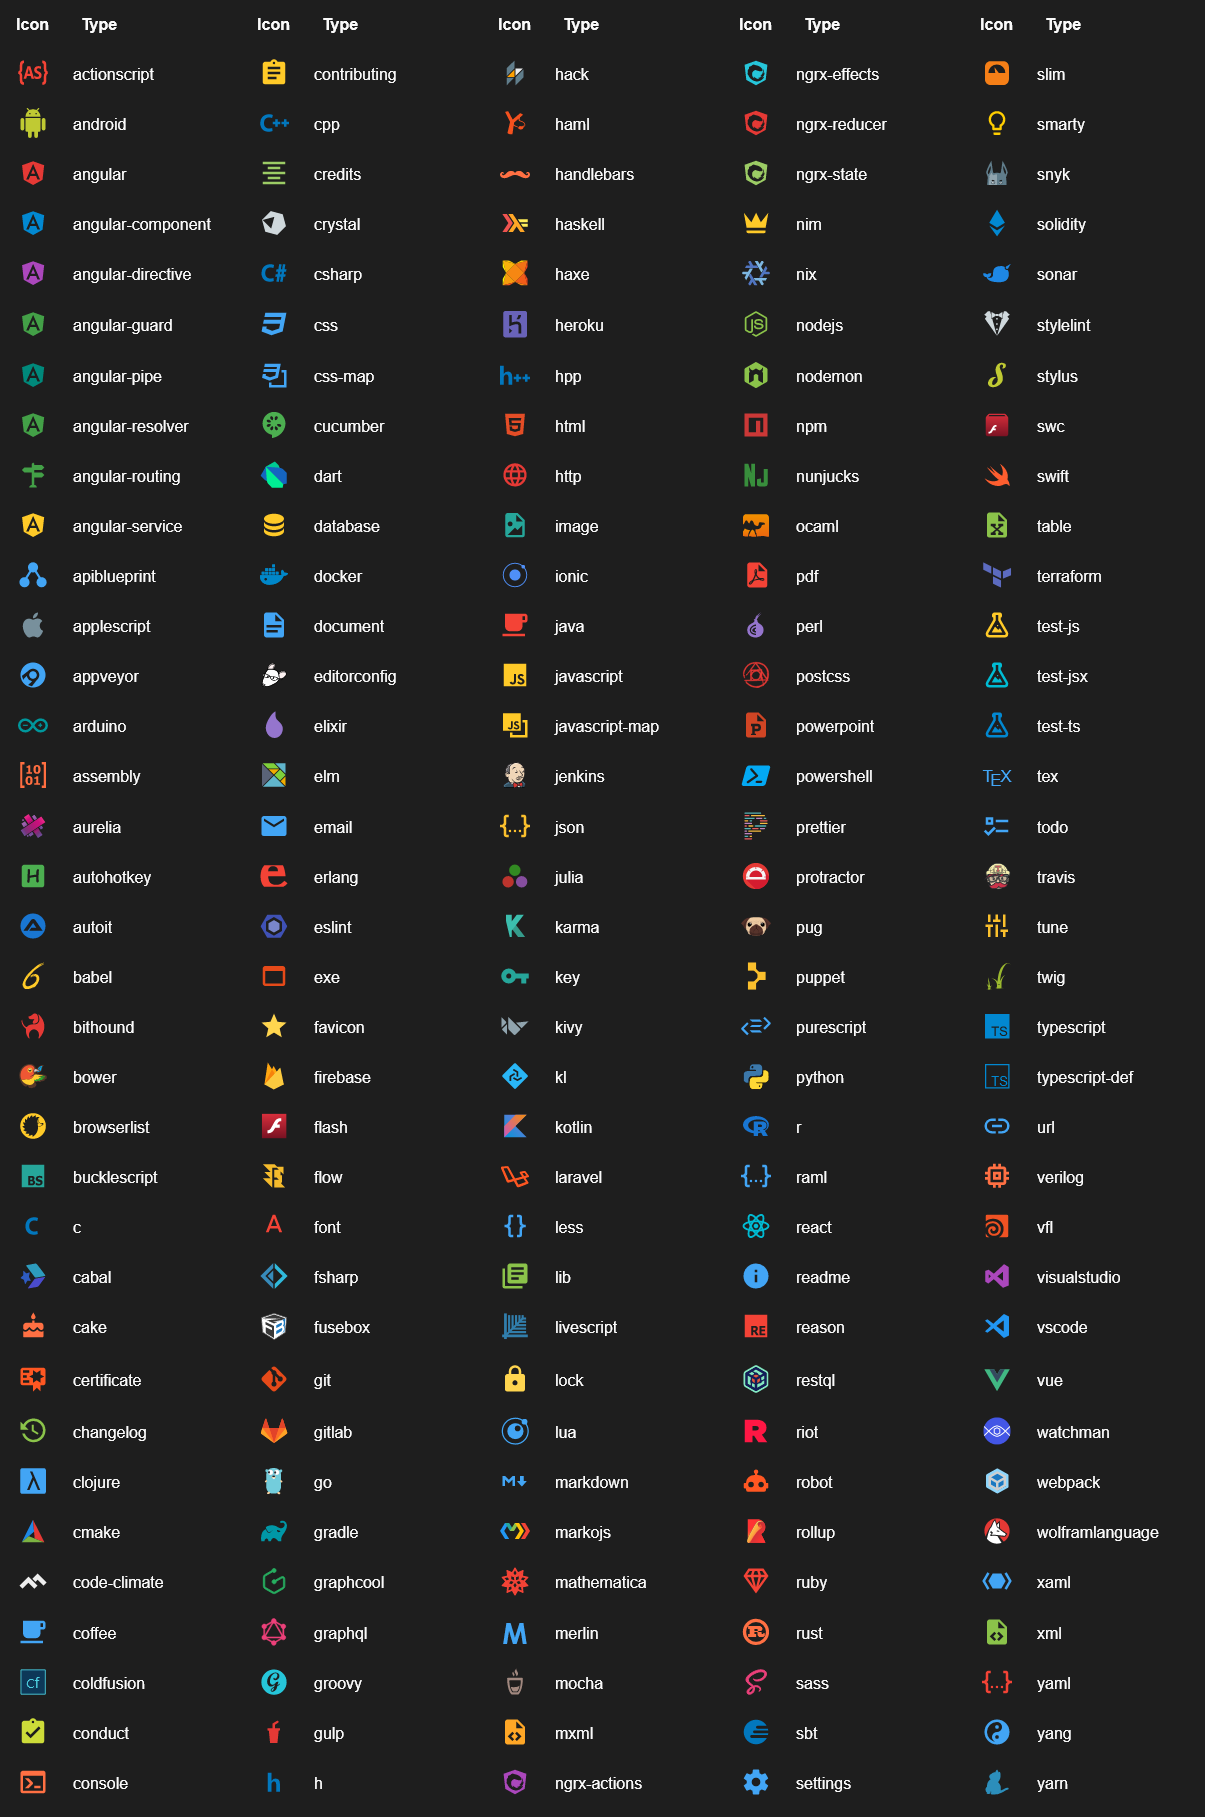
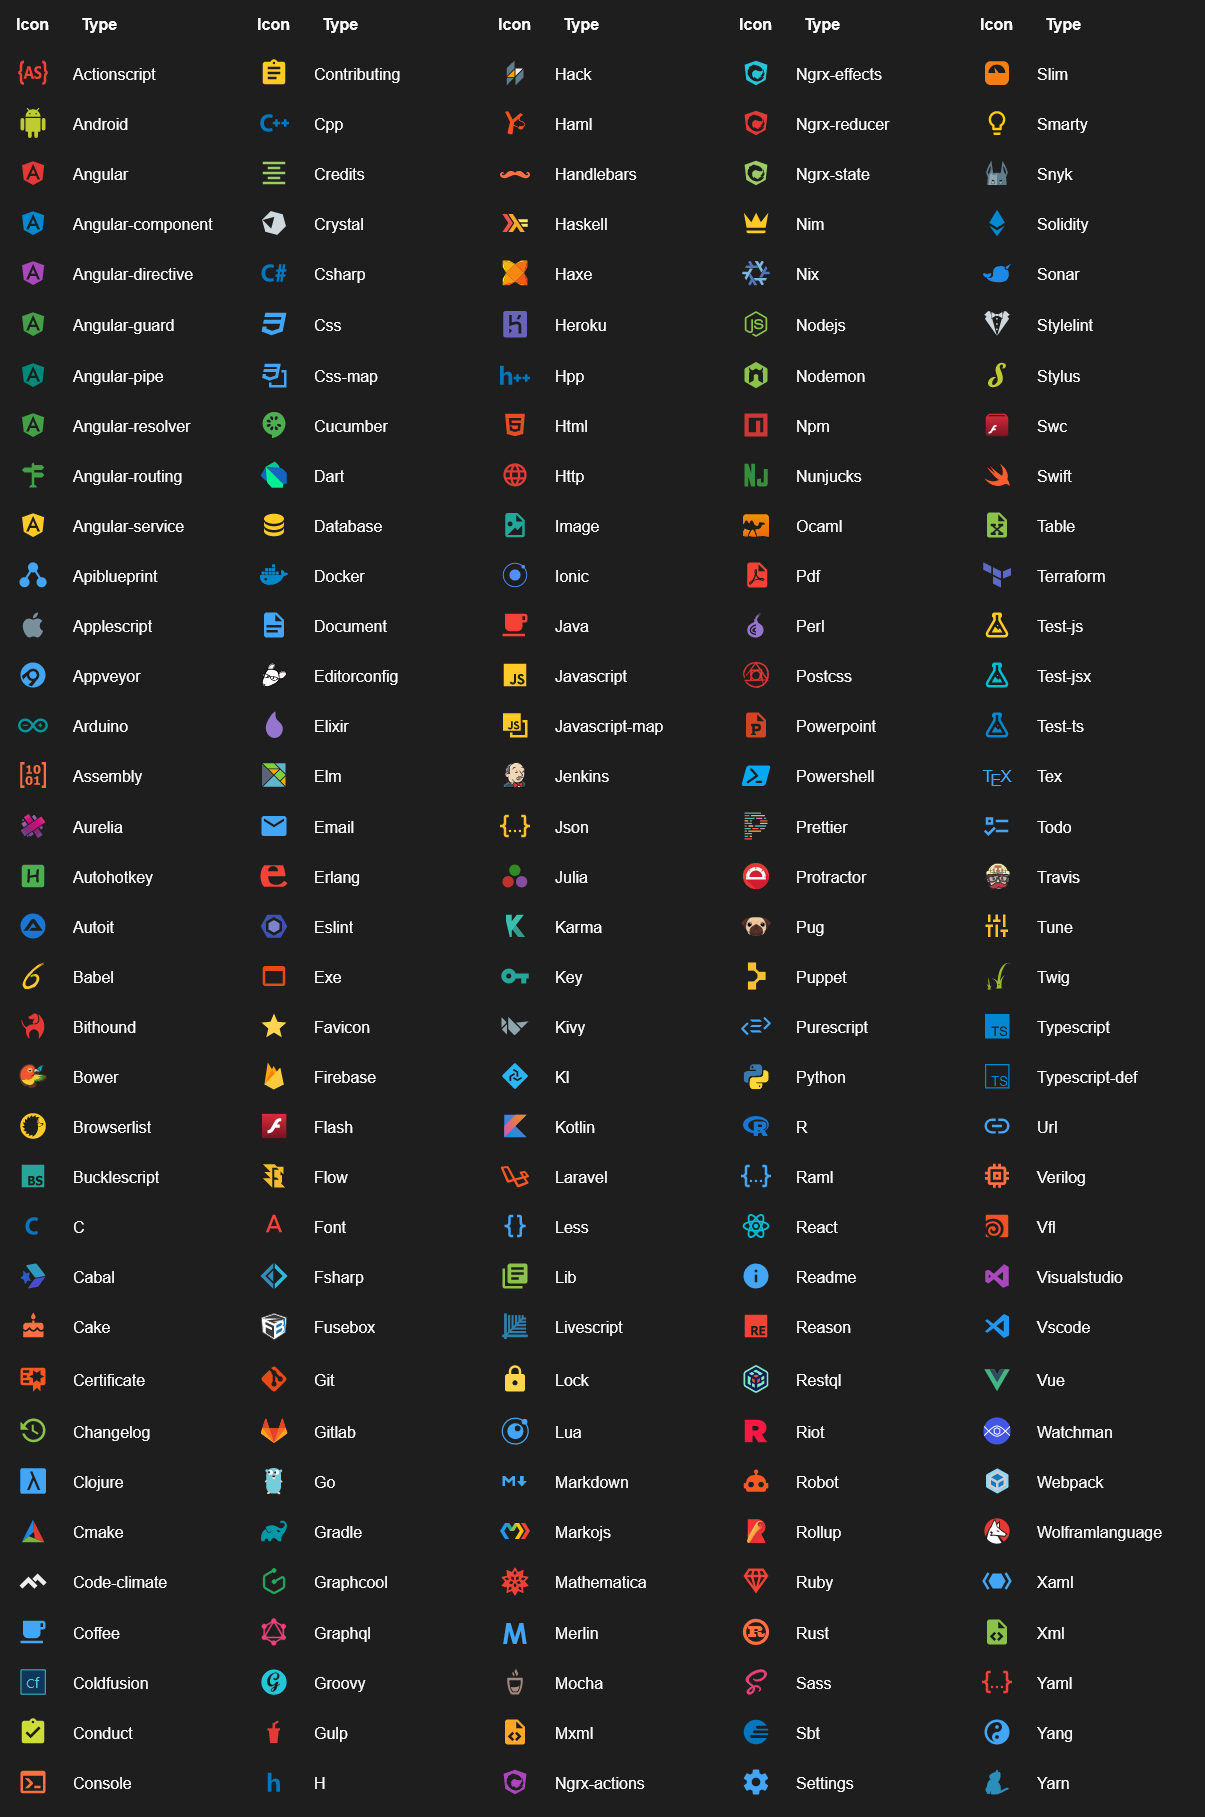
improved preview script

diff --git a/scripts/preview/index.ts b/scripts/preview/index.ts
@@ -23,7 +23,7 @@ const folderThemes = filterDuplicates(folderIcons.map(theme => {
         folders.push(...theme.icons.map(i => i.name));
     }
     return [].concat(...folders);
-}).reduce((a, b) => a.concat(b))).map(i => ({ iconName: i, label: toTitleCase(i.replace('folder-', '')) }));
+}).reduce((a, b) => a.concat(b))).map(i => ({ iconName: i, label: i.replace('folder-', '') }));
 
 generatePreview('fileIcons', basicFileIcons, 5, ['word', 'movie', 'virtual', 'music']);
-generatePreview('folderIcons', folderThemes, 5, ['folder-git', 'folder-expo', 'folder-font']);
+generatePreview('folderIcons', folderThemes, 5, ['folder-expo', 'folder-font']);

diff --git a/scripts/preview/preview.ts b/scripts/preview/preview.ts
@@ -28,7 +28,7 @@ const createHTMLTableBodyRows = (items: IconDefinition[][]) => {
             <td class="icon">
                 <img src="./../../icons/${icon.iconName}.svg" alt="${icon.label}">
             </td>
-            <td class="type">${icon.label}</td>
+            <td class="type">${toTitleCase(icon.label)}</td>
         `).join('');
         const tableRow = `
             <tr>
